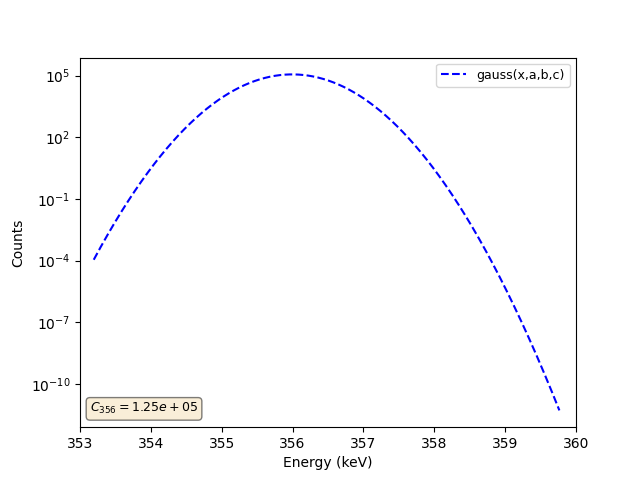
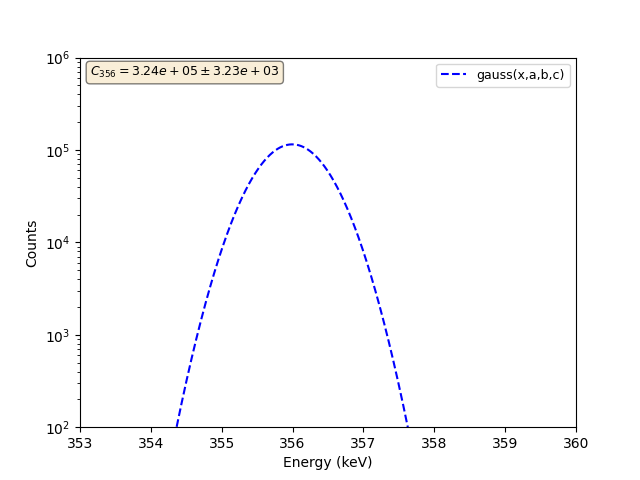
update

diff --git a/Ba133_analysis/Ba133_dlt_analysis.py b/Ba133_analysis/Ba133_dlt_analysis.py
@@ -48,6 +48,9 @@ def main():
     counts, bins_cal, bars = plt.hist(calibrated_energy, bins=no_bins)
     plt.close("all")
 
+    bin_width = bins_cal[1] - bins_cal[0]
+    print("bin width: ", bin_width, " keV")
+
     #_________Construct dlt observable________
     print("")
     print("Constructing Ba133 dead layer observable...")
@@ -73,16 +76,23 @@ def main():
     fig, ax = plt.subplots()
     plt.plot(xfit, gaussian(xfit,a,b,c), "b--", label ="gauss(x,a,b,c)")
     plt.yscale("log")
-    C_356 = gauss_count(a, b, c)
-    print("gauss count: ", C_356)
+    C_356, C_356_err = gauss_count(a, c, np.sqrt(pcov[0][0]), np.sqrt(pcov[2][2]), bin_width)
+    print("gauss count: ", C_356, " +/- ", C_356_err )
     plt.xlim(xmin_356, xmax_356) 
+    plt.ylim(100,10**6) 
     plt.xlabel("Energy (keV)")
     plt.ylabel("Counts")
     plt.legend(loc="upper right", fontsize=9)
     props = dict(boxstyle='round', facecolor='wheat', alpha=0.5)
-    info_str = r'$C_{356} = %.3g$' % (C_356)
-    plt.text(0.02, 0.07, info_str, transform=ax.transAxes, fontsize=9,verticalalignment='top', bbox=props) #ax.text
+    info_str = r'$C_{356} = %.3g \pm %.3g$' % (C_356, C_356_err)
+    plt.text(0.02, 0.98, info_str, transform=ax.transAxes, fontsize=9,verticalalignment='top', bbox=props) #ax.text
     plt.savefig("/lfs/l1/legend/users/aalexander/HADES_detchar/Ba133_analysis/plots/356keV_dlt_signalonly.png")
+
+    #check with manual integration
+    bina, binb = int(xmin_356/bin_width), int(xmax_356/bin_width)
+    bkg_estimate = g*(xmax_356-xmin_356)
+    integral_356 = bin_width*sum(counts[bina:binb]) - bkg_estimate
+    print("manual integral check: ", integral_356)
 
 
     #try other fits - constrained cdf
@@ -126,24 +136,27 @@ def main():
     fig, ax = plt.subplots()
     R = 2.65/32.9
     plt.plot(xfit, gaussian(xfit,a,b,c) + R*gaussian(xfit,a,d,e), "b--", label ="gauss(x,a,b,c) + R*gauss(x,a,d,e)")
+    plt.plot(xfit, gaussian(xfit,a,b,c), "g--", label ="gauss(x,a,b,c)")
+    plt.plot(xfit, R*gaussian(xfit,a,d,e), "r--", label ="R*gauss(x,a,d,e)")
     plt.yscale("log")
-    C_81 = gauss_count(a, b, c)
-    C_79 = gauss_count(R*a,d,e)
-    print("gauss count 81: ", C_81)
-    print("gauss count 79: ", C_79)
+    C_81, C_81_err = gauss_count(a, c, np.sqrt(pcov[0][0]), np.sqrt(pcov[2][2]), bin_width)
+    C_79, C_79_err = gauss_count(R*a, e, R*np.sqrt(pcov[0][0]), np.sqrt(pcov[4][4]), bin_width)
+    print("gauss count 81: ", C_81, " +/- ", C_81_err )
+    print("gauss count 79.6: ", C_79, " +/- ", C_79_err )
     plt.xlim(xmin_81, xmax_81)
     plt.ylim(100,10**6) 
     plt.xlabel("Energy (keV)")
     plt.ylabel("Counts")
     plt.legend(loc="upper right", fontsize=9)
     props = dict(boxstyle='round', facecolor='wheat', alpha=0.5)
-    info_str = '\n'.join(( r'$C_{81} = %.3g$' % (C_81), r'$C_{79.6} = %.3g$' % (C_79)))
+    info_str = '\n'.join(( r'$C_{81} = %.3g \pm %.3g$' % (C_81, C_81_err), r'$C_{79.6} = %.3g \pm %.3g$' % (C_79, C_79_err)))
     plt.text(0.02, 0.98, info_str, transform=ax.transAxes, fontsize=9,verticalalignment='top', bbox=props) #ax.text
     plt.savefig("/lfs/l1/legend/users/aalexander/HADES_detchar/Ba133_analysis/plots/81keV_dlt_signalonly.png")
 
-
+    print("")
     O_Ba133 = (C_79 + C_81)/C_356
-    print("O_BA133 = " , O_Ba133)
+    O_Ba133_err = O_Ba133*np.sqrt((C_79_err**2 + C_81_err**2)/(C_79+C_81)**2 + (C_356_err/C_356)**2)
+    print("O_BA133 = " , O_Ba133, " +/- ", O_Ba133_err)
 
 
     
@@ -255,10 +268,13 @@ def chi_sq_calc(xdata, ydata, yerr, fit_func, popt):
 
     return chi_sq, p_value, residuals, dof
 
-def gauss_count(a,b,c):
+def gauss_count(a,c, a_err, c_err, bin_width):
     "count/integrate gaussian from -inf to plus inf"
-    integral = a*c*np.sqrt(2*np.pi)
-    return integral
+    #integral = a*c*np.sqrt(2*np.pi) #old - not normalised to bin width
+    integral = a*c*np.sqrt(2*np.pi)/bin_width
+    integral_err = integral*np.sqrt((a_err/a)**2 + (c_err/c)**2)
+
+    return integral, integral_err
 
 def fit_peak_356(key, bins, counts, xmin, xmax):
     "fit the 356 keV peak with gaussian +cdf bkg"
